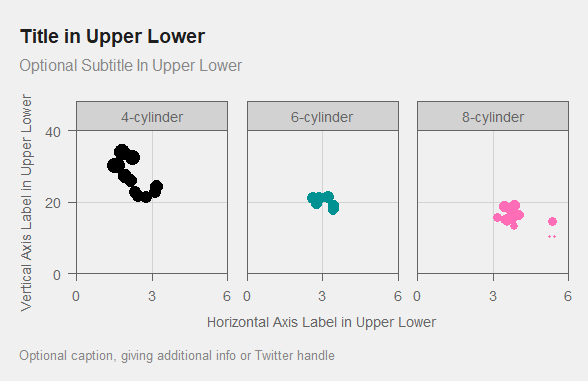
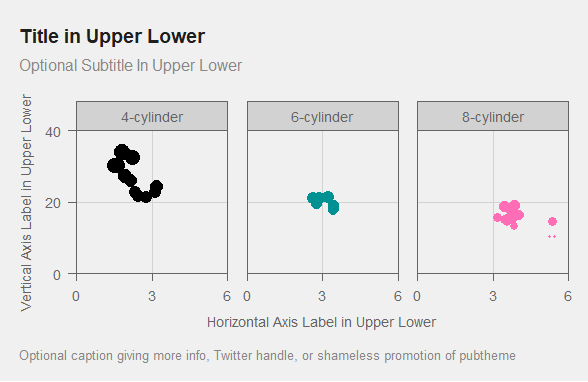
change default caption

Changed region(s): [[0.1837, 0.8927, 0.8878, 0.9503]]

diff --git a/README.md b/README.md
@@ -61,7 +61,7 @@ g = ggplot(dg, aes(x=wt, y=MPG, color=Cylinders))+
   geom_point(aes(size=MPG))+
   labs(title    = title,
        subtitle = 'Optional Subtitle In Upper Lower',
-       caption  = "Optional caption, giving additional info or Twitter handle",
+       caption  = "Optional caption giving more info, Twitter handle, or shameless promotion of pubtheme",
        x = 'Horizontal Axis Label in Upper Lower',
        y = 'Vertical Axis Label in Upper Lower')+
   scale_x_continuous(limits=c(0, 6), breaks=c(0, 3, 6), oob=squish, labels=comma)+
@@ -127,7 +127,7 @@ g = ggpairs(dg,
             diag = list(continuous = pub.density)) +
   labs(title    = title,
        subtitle = 'Optional Subtitle In Upper Lower',
-       caption  = "Optional caption, giving additional info or Twitter handle",
+       caption  = "Optional caption giving more info, Twitter handle, or shameless promotion of pubtheme",
        x = 'Horizontal Axis Label in Upper Lower',
        y = 'Vertical Axis Label in Upper Lower')+
   coord_cartesian(clip='off', expand=FALSE)+
@@ -181,7 +181,7 @@ g = ggplot(dg, aes(x=days, y=value, color=name))+
   geom_line()+
   labs(title    = title,
        subtitle = 'Optional Subtitle In Upper Lower',
-       caption  = "Optional caption, giving additional info or Twitter handle",
+       caption  = "Optional caption giving more info, Twitter handle, or shameless promotion of pubtheme",
        x = 'Horizontal Axis Label in Upper Lower', 
        y = 'Vertical Axis Label in Upper Lower')+  
   scale_x_continuous(labels=comma) + 
@@ -219,7 +219,7 @@ g  = ggplot(dg, aes(x=value))+
   geom_histogram(fill=pubred, color=pubbackgray, binwidth=500) + ## set a reasonable binwidth
   labs(title    = title,
        subtitle = 'Optional Subtitle In Upper Lower',
-       caption  = "Optional caption, giving additional info or Twitter handle",
+       caption  = "Optional caption giving more info, Twitter handle, or shameless promotion of pubtheme",
        x = 'Horizontal Axis Label in Upper Lower', ## Required.
        y = 'Count')+  ## Often don't need to change.
   scale_x_continuous(labels=comma)+
@@ -269,7 +269,7 @@ g = ggplot(dg, aes(x=value, y=name))+
   geom_text(aes(label=round(value,2)), hjust=-0.1)+ ## optional numbers with reasonable number of digits
   labs(title    = title,
        subtitle = 'Optional Subtitle In Upper Lower',
-       caption  = "Optional caption, giving additional info or Twitter handle",
+       caption  = "Optional caption giving more info, Twitter handle, or shameless promotion of pubtheme",
        x = 'Horizontal Axis Label in Upper Lower', ## Optional. 
        y = NULL)+  ## Optional. Upper Lower.
   scale_x_continuous(limits=c(0,35))+ 
@@ -319,7 +319,7 @@ g = ggplot(dg %>%
                       oob=squish) +
   labs(title    = title,
        subtitle = 'Optional Subtitle In Upper Lower',
-       caption  = "Optional caption, giving additional info or Twitter handle",
+       caption  = "Optional caption giving more info, Twitter handle, or shameless promotion of pubtheme",
        x = 'Day (Optional Axis Label in Upper Lower)', 
        y = NULL, ## Optional
        fill = 'Value')+  
@@ -366,7 +366,7 @@ g = ggplot(dg, aes(x=value, y=name))+
   geom_text(aes(label=round(value,2)), hjust=-0.3)+ ## optional numbers with reasonable number of digits
   labs(title    = title,
        subtitle = 'Optional Subtitle In Upper Lower',
-       caption  = "Optional caption, giving additional info or Twitter handle",
+       caption  = "Optional caption giving more info, Twitter handle, or shameless promotion of pubtheme",
        x = 'Horizontal Axis Label in Upper Lower', ## Optional. 
        y = NULL)+  ## Optional. Upper Lower.
   scale_x_continuous(limits=c(0,120), expand=c(0,0))+
@@ -402,7 +402,7 @@ g = ggplot(dg, aes(x=name, y=value))+
   geom_text(aes(label=round(value,2)), vjust=-0.5)+ ## optional numbers with reasonable number of digits
   labs(title    = title,
        subtitle = 'Optional Subtitle In Upper Lower',
-       caption  = "Optional caption, giving additional info or Twitter handle",
+       caption  = "Optional caption giving more info, Twitter handle, or shameless promotion of pubtheme",
        x = 'Horizontal Axis Label in Upper Lower', ## Optional. 
        y = NULL)+  ## Optional. Upper Lower.
   scale_x_continuous(limits=c(0,10), expand=c(0,0), breaks=0:10)+
@@ -448,7 +448,7 @@ g = ggplot(dg, aes(y=name))+
   geom_text(aes(x=xend, label=round(xend,2)), hjust=-0.3)+ ## optional numbers with reasonable number of digits
   labs(title    = title,
        subtitle = 'Optional Subtitle In Upper Lower',
-       caption  = "Optional caption, giving additional info or Twitter handle",
+       caption  = "Optional caption giving more info, Twitter handle, or shameless promotion of pubtheme",
        x = 'Horizontal Axis Label in Upper Lower', ## Optional. 
        y = NULL)+  ## Optional. Upper Lower.
   scale_x_continuous(limits=c(0,120), expand=c(0,0))+
@@ -508,7 +508,7 @@ g = ggplot(dg, aes(x=coef, y=var))+
   geom_vline(xintercept=0, color=pubmediumgray)+
   labs(title    = title,
        subtitle = 'Optional Subtitle In Upper Lower',
-       caption  = "Optional caption, giving additional info or Twitter handle",
+       caption  = "Optional caption giving more info, Twitter handle, or shameless promotion of pubtheme",
        x = 'Coefficient', 
        y = NULL)+  ## Optional. 
   scale_x_continuous(limits=c(-5,5))+
@@ -548,7 +548,7 @@ g = ggplot(dg, aes(x=wt, y=mpg))+
   facet_wrap(~name, nrow=1) +
   labs(title    = title,
        subtitle = 'Optional Subtitle In Upper Lower',
-       caption  = "Optional caption, giving additional info or Twitter handle",
+       caption  = "Optional caption giving more info, Twitter handle, or shameless promotion of pubtheme",
        x = 'Horizontal Axis Label in Upper Lower',
        y = 'Vertical Axis Label in Upper Lower')+
   scale_x_continuous(limits=c(0, 6), breaks=c(0, 3, 6), oob=squish, labels=comma_format(accuracy = 1))+
@@ -642,7 +642,7 @@ g = ggplot(dg, aes(x=0, y=date, color=name))+
                    show.legend = F)+
   labs(title    = title,
        subtitle = 'Optional Subtitle In Upper Lower',
-       caption  = "Optional caption, giving additional info or Twitter handle",
+       caption  = "Optional caption giving more info, Twitter handle, or shameless promotion of pubtheme",
        x = '',
        y = '')+
   scale_x_continuous(limits=c(0, 5), expand=c(0,0))+
@@ -701,7 +701,7 @@ g = ggplot(dg, aes(x=lon, y=lat))+
   geom_point(color=pubred)+
   labs(title    = title, 
        subtitle = 'Optional Subtitle In Upper Lower',
-       caption  = "Optional caption, giving additional info or Twitter handle")+
+       caption  = "Optional caption giving more info, Twitter handle, or shameless promotion of pubtheme")+
   coord_cartesian(expand=F, clip='off')+
   theme_pub(type='map', base_size = 36/3)
 g
@@ -745,7 +745,7 @@ p=plot_ly(data=dg,
             base_size = base_size, 
             subtitle  = T, 
             caption   = F, 
-            legend    = T) %>%
+            legend.rows = 1) %>%
   layout(
     title = list(text = maketitle(title     = 'Title In Upper Lower',
                                   subtitle  = 'Optional Subtitle in Upper Lower',
